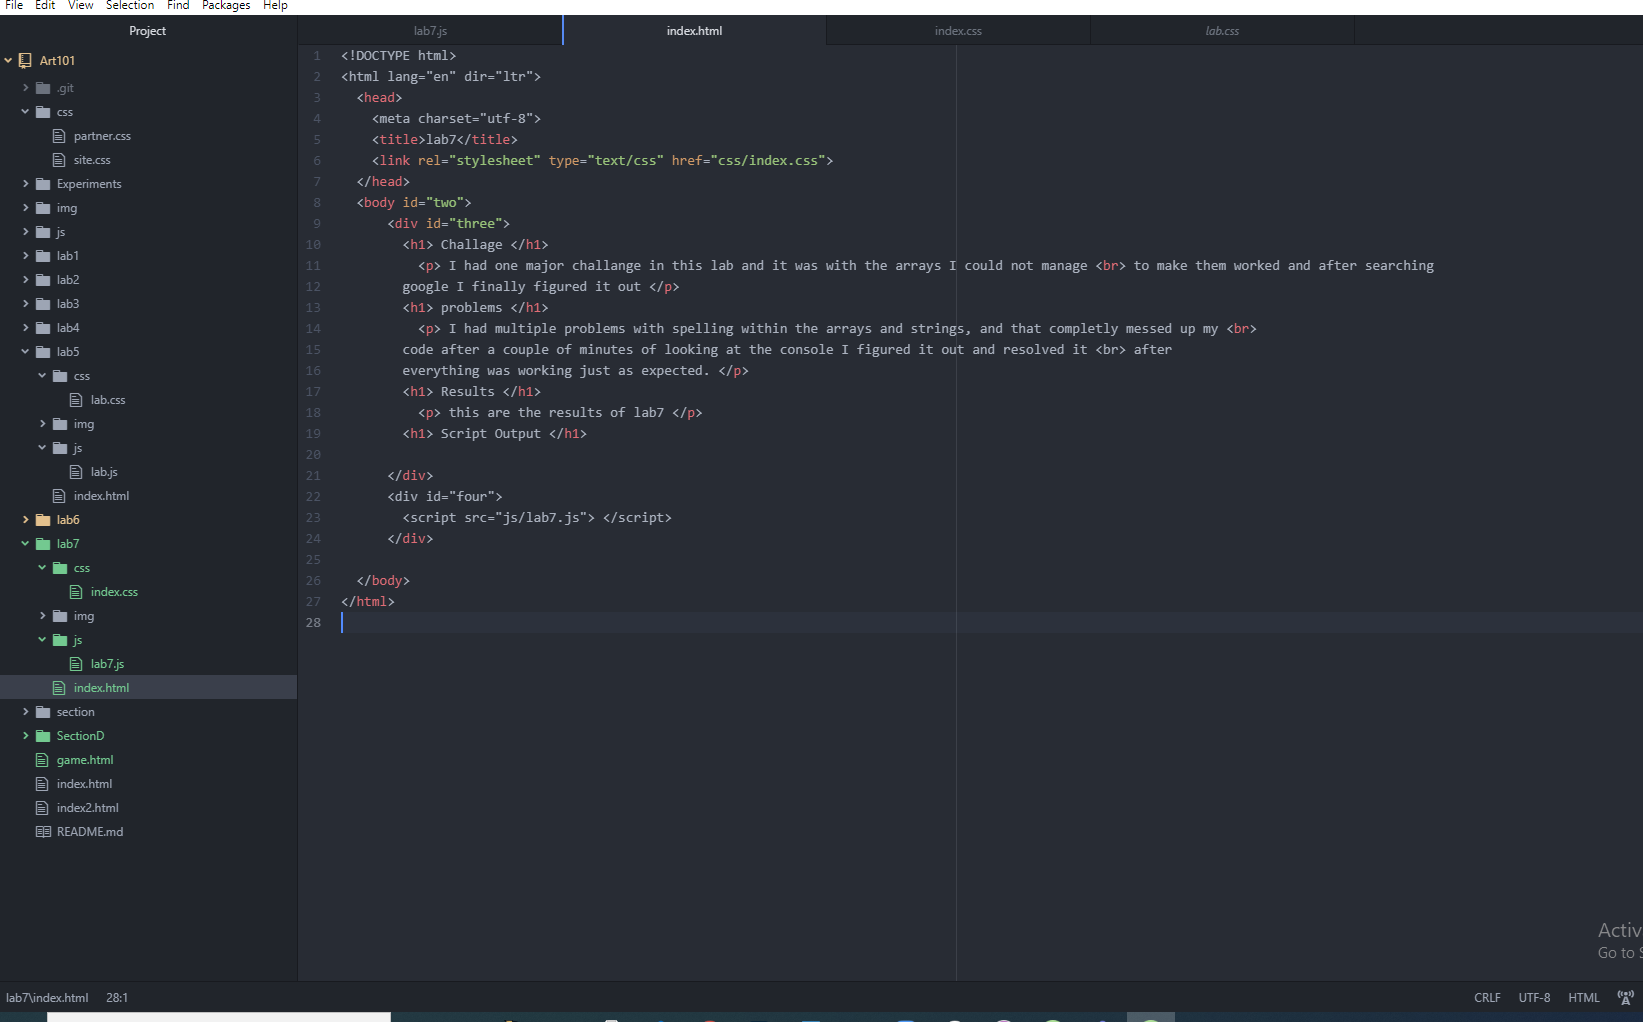
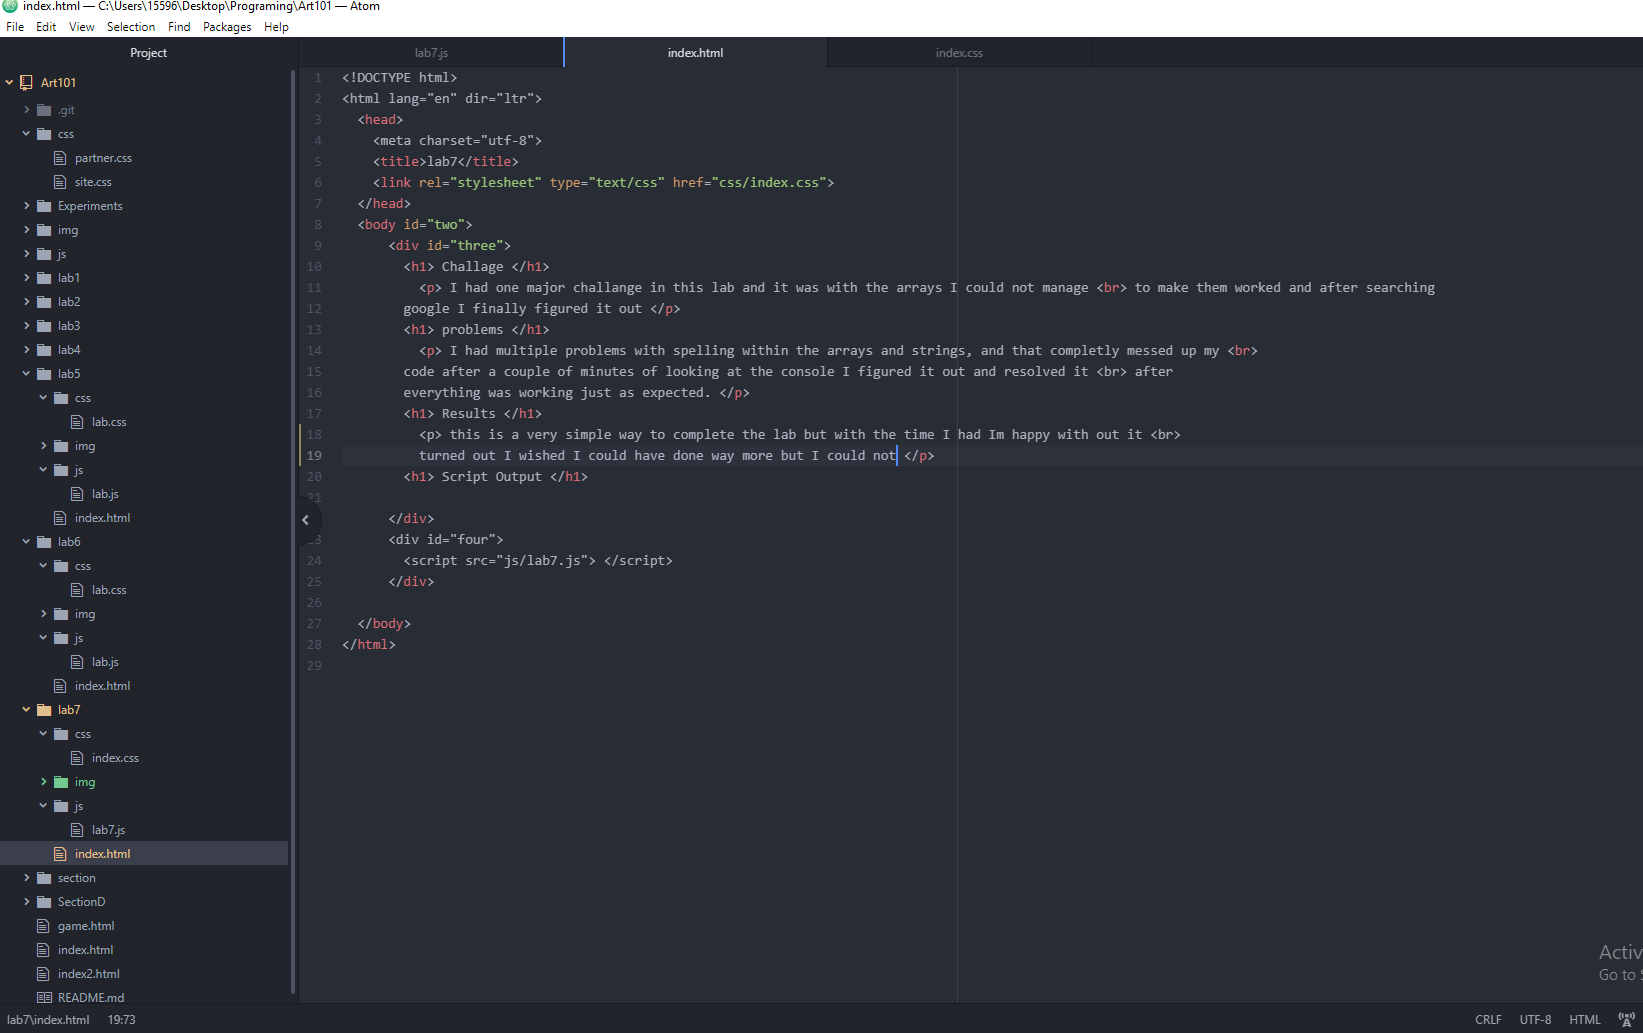
adf

diff --git a/lab7/index.html b/lab7/index.html
@@ -15,7 +15,8 @@
         code after a couple of minutes of looking at the console I figured it out and resolved it <br> after
         everything was working just as expected. </p>
         <h1> Results </h1>
-          <p> this are the results of lab7 </p>
+          <p> this is a very simple way to complete the lab but with the time I had Im happy with out it <br>
+          turned out I wished I could have done way more but I could not </p>
         <h1> Script Output </h1>
 
       </div>
